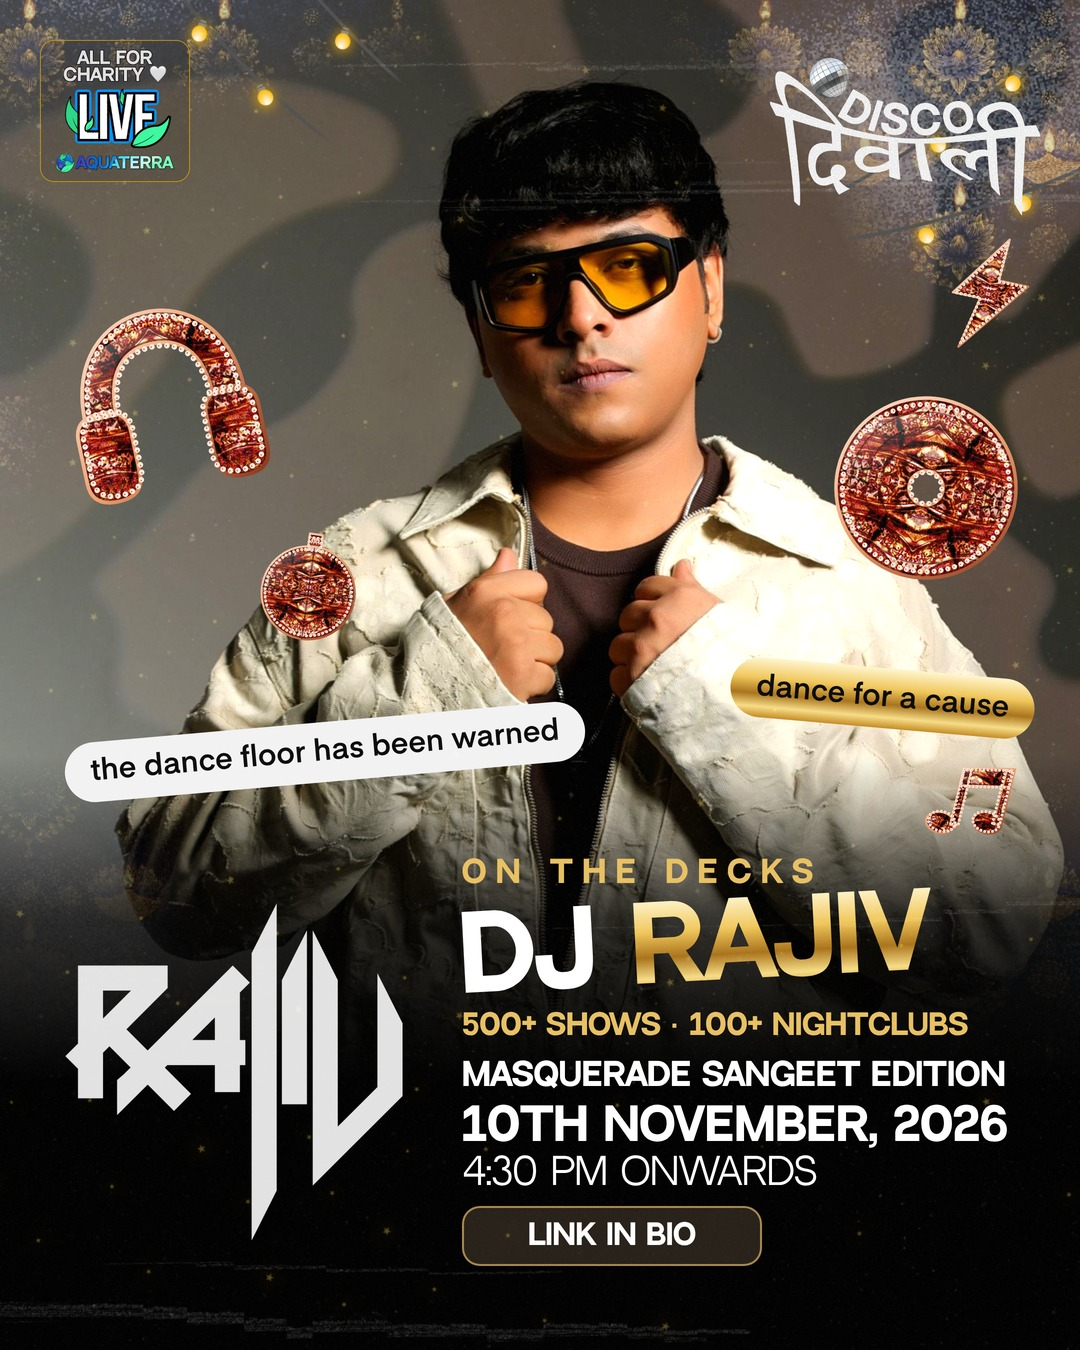
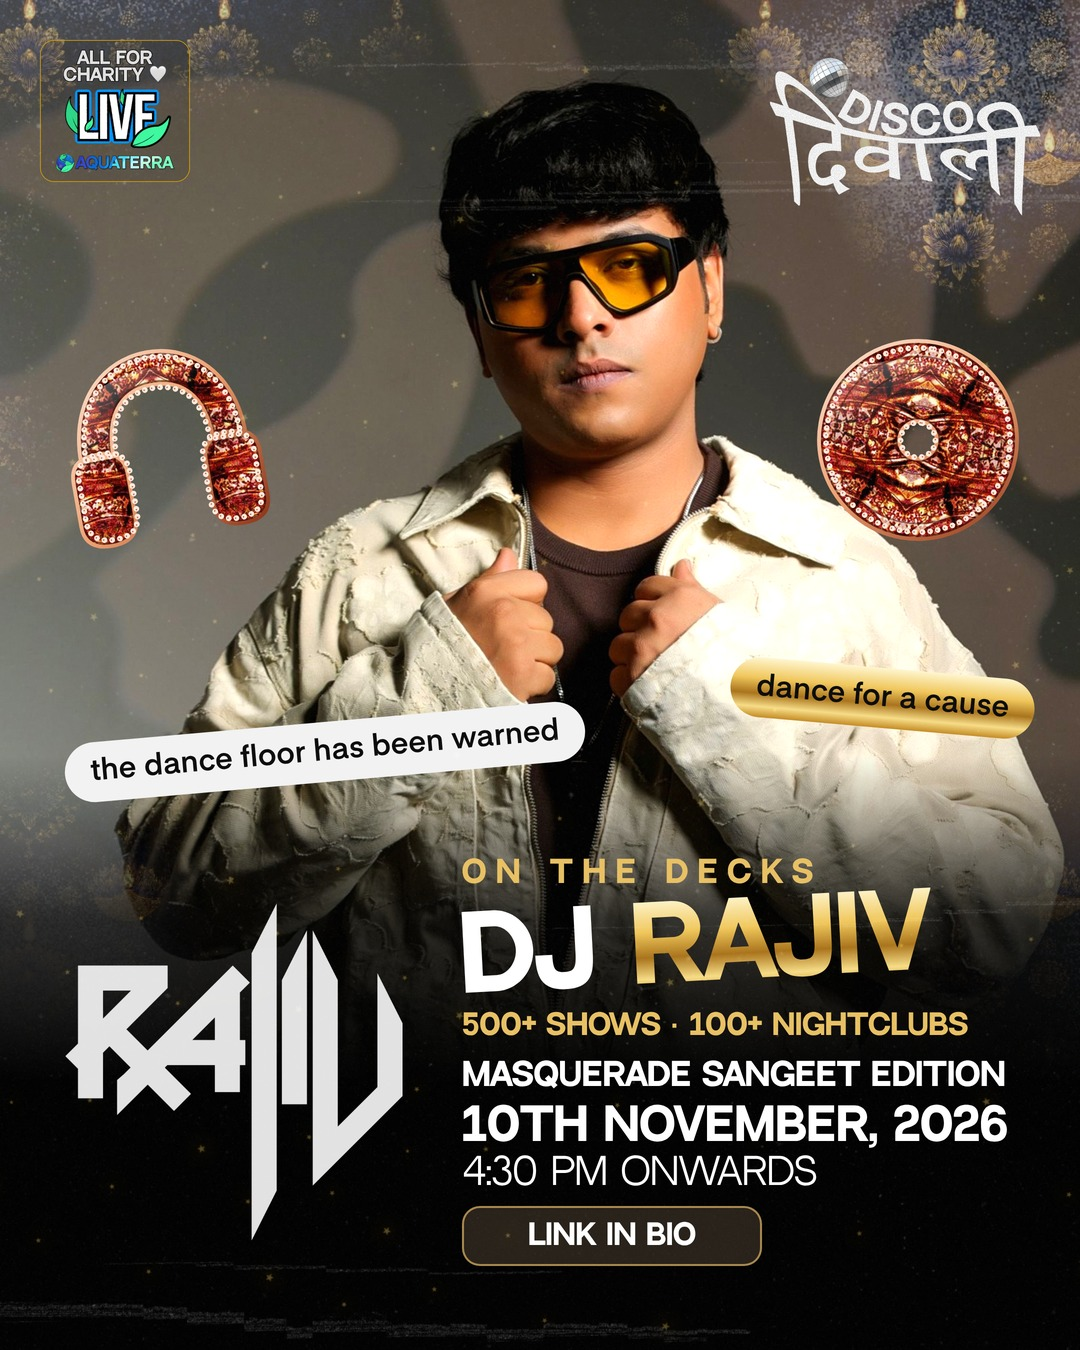
DJ Rajiv poster: two stickers as a mirrored pair, no stray lights
Cuts the five scattered stickers to headphones and vinyl, mirrored either side of his head.
DJ_EXTRAS=1 and LIGHTS=1 restore the rest.

Claude-Session: https://claude.ai/code/session_015kc4KVAVHAeNHn96CgGETW

diff --git a/scratchpad/dd_dj_rajiv.py b/scratchpad/dd_dj_rajiv.py
@@ -27,7 +27,7 @@ VER = os.environ.get("VER", "v1")
 STROKE = "color:#fff;-webkit-text-stroke:3px #000;paint-order:stroke fill;"
 GOLD_LIT = "#E8C063"
 FUN = os.environ.get("FUN", "1") == "1"                # v4 (user, 2026-10-23: "make the poster fun and engaging"): FUN=0 reproduces v3
-LIGHTS = os.environ.get("LIGHTS", "1" if FUN else "0") == "1"
+LIGHTS = os.environ.get("LIGHTS", "0") == "1"          # off by default: masked away from his face they were a few stray bulbs, which read as scatter (user: "too many stickers randomly placed")
 FOIL = ("linear-gradient(180deg,#FFF6CF 0%,#F0C65A 34%,#A8721A 60%,#F7DC86 82%,#C48A22 100%)")   # same gold as Poster.FOIL
 sys.path.insert(0, os.path.dirname(os.path.abspath(__file__)))
 
@@ -100,8 +100,11 @@ def build():
             if os.environ.get("COPPER_SET", "dj") == "dj":
                 # "make mew stickers" (user, 2026-10-23): NEW copper silhouettes on the same mask surface, DJ themed (dd_dj_copper.py). COPPER_SET=classic restores heart and stars.
                 import dd_dj_copper as cd
-                spec = (("headphones", cd.headphones, 56, 290, 214, -12, 214), ("discoball", cd.discoball, 250, 528, 118, 8, 118),
-                        ("bolt", cd.bolt, 926, 232, 124, 12, 124), ("notes", cd.notes, 916, 744, 110, 14, 110))
+                # user, 2026-10-23: "too many stickers randomly placed". Two, as a deliberate MIRRORED PAIR either side of his head: same size, same height, opposite tilts, centres equidistant from the
+                # canvas axis (162 and 918 around 540). Ball, bolt and notes stay in the module and the PNG set, off the poster. DJ_EXTRAS=1 puts them back.
+                spec = (("headphones", cd.headphones, 52, 330, 220, -10, 220), ("vinyl", cd.vinyl, 808, 330, 220, 10, 220))
+                if os.environ.get("DJ_EXTRAS", "0") == "1":
+                    spec += (("discoball", cd.discoball, 250, 560, 118, 8, 118), ("bolt", cd.bolt, 926, 232, 124, 12, 124), ("notes", cd.notes, 916, 744, 110, 14, 110))
                 mk = lambda fn, size, rot, tag: fn(size, rot, u=tag)
             else:
                 spec = (("heart", cp.heart, 60, 296, 206, -12, 186), ("star1", cp.star, 262, 540, 112, 12, 112), ("star2", cp.star, 932, 752, 92, 16, 92))
@@ -112,8 +115,6 @@ def build():
                 P.append(f'<img data-tag="mask" src="{dd.uri("mask_copper.png")}" style="position:absolute;left:{round(vx - 157 * k)}px;top:{round(vy - 211 * k)}px;width:{round(1680 * k)}px;'
                          f'z-index:15;transform:rotate(8deg)">')
                 els.append(("mask", vx - 8, vy - 20, 308, 224))                               # visible 267x174 at 8 degrees (layout.rotated_bbox), with a little air
-            elif os.environ.get("COPPER_SET", "dj") == "dj":
-                spec += (("vinyl", cd.vinyl, 826, 388, 200, 12, 200),)                      # fills the right wall the mask left
         else:
             import dd_dj_stickers as st
             spec = (("headphones", st.headphones, 52, 292, 210, -12, 210), ("bolt", st.bolt, 262, 520, 128, 10, 128),

diff --git a/brain/DISCO_DIWALI.md b/brain/DISCO_DIWALI.md
@@ -138,3 +138,5 @@ Feed 1080x1350 from the user's reference (a "know your artist" poster: giant nam
 **New copper stickers (user, 2026-10-23: "make mew stickers", i.e. new) — `scratchpad/dd_dj_copper.py`, PNGs in `sample_outputs/disco_diwali_copper_dj_stickers/`.** Five NEW DJ silhouettes on the same photographed copper surface as the heart, star and mask (built on `dd_copper._defs/_metal`, so the metal stays one recipe): headphones, vinyl record, music notes, lightning bolt, disco ball. The DJ poster uses headphones, disco ball, bolt and notes beside the copper mask (`COPPER_SET=classic` restores the heart and stars; `STICKERS=own` the flat gold set). No drop shadow. Lessons (PROVEN): boxy rectangular cups on a thin arch read as a PADLOCK, so use capsule cups and a band as thick as half the cup, centred on it; a stem and a beam read at 100px but a small ornament does not, so give a thin-stroked silhouette (notes, bolt) at least 110px; curved facet lines over the filigree read as noise, keep a disco ball to a plain cross-hatch.
 
 **Mask removed (user, 2026-10-23: "remove the mask").** The DJ poster no longer carries the copper mask sticker; the new copper vinyl takes the right wall it left, so that side is not empty. `MASK=1` on `dd_dj_rajiv.py` brings the mask back (and drops the vinyl). Note the format's own rule that the mask is the AQ-branded motif on most Disco Diwali posters, so a poster without it leans on the LIVE badge and the lockup for brand presence.
+
+**Fewer stickers, placed on purpose (user, 2026-10-23: "it feels like there are too many stickers randomly placed").** v11 had five stickers of five sizes and tilts, two chips and a few stray bulbs, none aligned to anything. v12 keeps TWO stickers as a MIRRORED PAIR either side of his head (headphones left, vinyl right: same 220px, same top y, opposite tilts of 10 degrees, centres equidistant from the canvas axis), the two chips (also a left/right pair at similar heights), and drops the string lights. Rule of thumb (PROVEN by the user's reaction): decoration is a count and an alignment decision, not a fill. Aim for one idea (a pair, a row, or one hero) and check that each piece lines up with another piece or with the subject. `DJ_EXTRAS=1` restores ball, bolt and notes; `LIGHTS=1` the bulbs.
